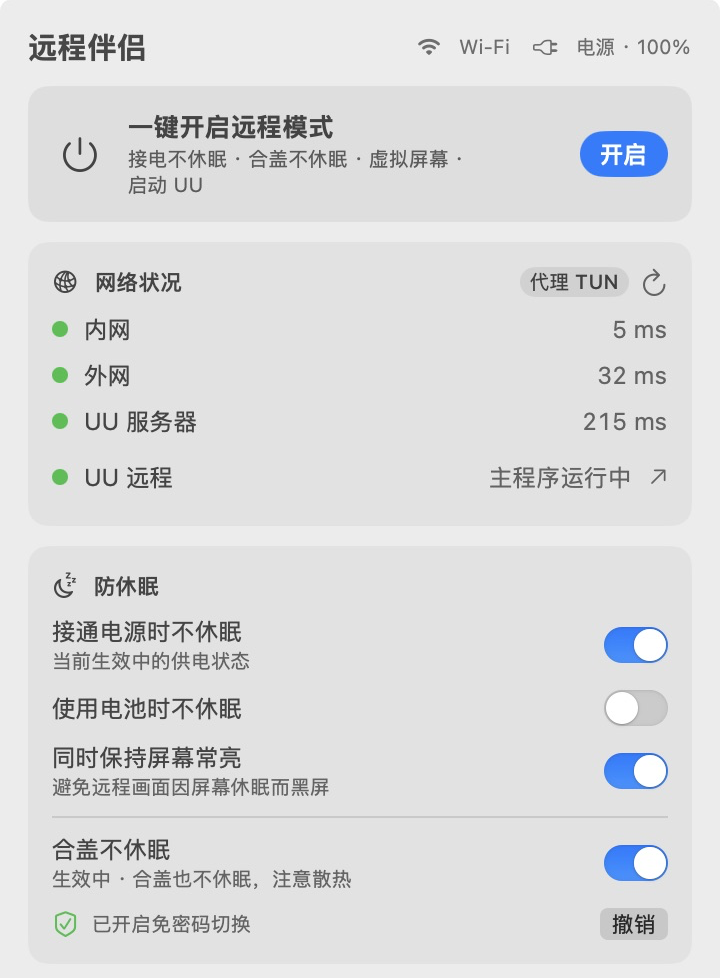
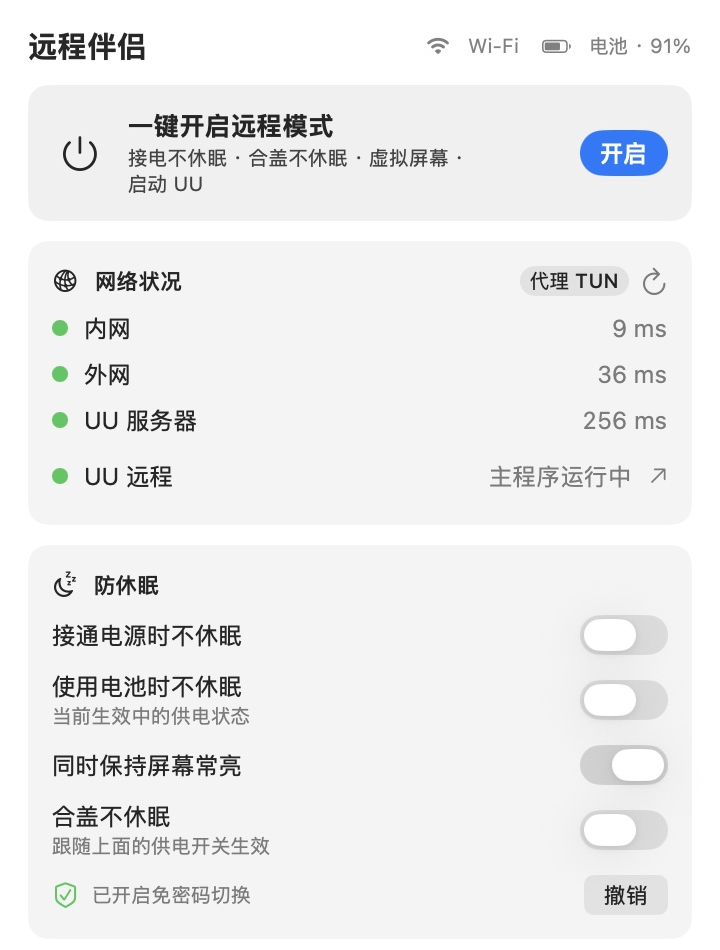
📝 docs: 精简功能介绍并更新当前界面截图

diff --git a/README.md b/README.md
@@ -5,7 +5,7 @@
 <h1 align="center">RemoteMate · 远程伴侣</h1>
 
 <p align="center"><strong>远程连接前，一键准备好你的 Mac。</strong></p>
-<p align="center">防休眠 · 合盖运行 · 虚拟屏幕 · 网络检测</p>
+<p align="center">防休眠 · 合盖运行 · 虚拟屏幕 · UU 保活 · 状态通知</p>
 
 <p align="center">
   <a href="https://github.com/erjin-zhi/remote-mate/releases/latest"><strong>下载最新版</strong></a>
@@ -17,50 +17,52 @@
 
 <p align="center"><sub>macOS 14 及以上 · 菜单栏工具 · 配合远程桌面软件使用</sub></p>
 
+## 核心特性
+
+- **一键准备远程环境**：把防休眠、合盖运行、虚拟屏幕和 UU 启动组合成一键远程模式，按需选择，随时开关。
+- **接电、电池分别管理**：独立控制两种供电状态下的防休眠与屏幕常亮，合盖策略随供电设置生效。
+- **为远程桌面适配画面**：支持预设与自定义分辨率、30 / 60 / 120 Hz、HiDPI 和主显示器切换；可随外接显示器插拔自动切换虚拟屏幕，使用电池且未开启电池防休眠时自动暂停，供电允许后恢复。
+- **UU 自动启动与可选保活**：开启远程模式时启动 UU；额外启用保活后，每 10 秒检查主程序，退出后后台重启，不抢焦点。
+- **网络与运行状态一目了然**：查看内外网延迟、UU 服务器延迟和主程序状态，未启动时可一键打开。
+- **关键变化及时提醒**：远程模式、供电和外接显示器变化影响远程时发送通知，合盖设置或虚拟屏幕失败也能及时发现。
+- **日常使用更省心**：独立设置窗口、菜单栏右键菜单、登录启动、启动后自动开启远程模式，以及应用内更新。
+
 ## 界面一览
 
 <table>
   <tr>
     <td width="50%" align="center" valign="top">
-      <strong>一键准备，状态一目了然</strong><br><br>
-      <img src="docs/images/overview.png" width="360" alt="RemoteMate 主面板：一键远程模式、网络延迟、UU 运行状态与防休眠开关">
+      <strong>一键远程与实时状态</strong><br><br>
+      <img src="docs/images/overview.png" width="360" alt="主面板：一键远程模式、网络延迟、UU 主程序状态与防休眠">
     </td>
     <td width="50%" align="center" valign="top">
-      <strong>按需配置屏幕与启动行为</strong><br><br>
-      <img src="docs/images/virtual-display.png" width="360" alt="虚拟屏幕设置：分辨率、30/60/120 Hz、HiDPI 与主显示器选项"><br>
-      <img src="docs/images/preferences.png" width="360" alt="设置窗口：一键远程包含项、外接显示器检测、UU 自动启动、登录启动与检查更新">
+      <strong>适配你的远程画面</strong><br><br>
+      <img src="docs/images/virtual-display.png" width="360" alt="虚拟屏幕：分辨率、刷新率、HiDPI 和主显示器选项">
+    </td>
+  </tr>
+  <tr>
+    <td width="50%" align="center" valign="top">
+      <strong>按需组合一键远程</strong><br><br>
+      <img src="docs/images/preferences.png" width="460" alt="远程设置：防休眠、虚拟屏幕、外接屏跳过、UU 启动与保活">
+    </td>
+    <td width="50%" align="center" valign="top">
+      <strong>启动、通知与退出偏好</strong><br><br>
+      <img src="docs/images/general.png" width="460" alt="通用设置：登录启动、状态通知和退出时恢复合盖休眠">
     </td>
   </tr>
 </table>
 
-<p align="center"><sub>v1.2.0 实际界面截图，按功能区域裁切。<a href="docs/images/main-panel.png">查看完整主面板</a></sub></p>
-
-## 能做什么
-
-- **一键远程模式**：按你的选择开启防休眠、合盖运行和虚拟屏幕，也可自动启动 UU 远程；额外勾选「UU 保活」后，主程序退出时会在后台重新启动。
-- **灵活防休眠**：分别设置接电、电池和屏幕常亮；合盖不休眠随当前供电设置生效。
-- **适配远程画面**：预设或自定义分辨率，支持 30 / 60 / 120 Hz、HiDPI 和主显示器切换；在设置中勾选「接有外接显示器时跳过」后，远程模式会在接入外接显示器时关闭虚拟屏幕，拔掉后自动创建。
-- **随时查看状态**：检测内网、外网延迟；安装 UU 远程后，还会显示其服务器延迟和主程序状态，支持一键打开。
-- **状态变化通知**：只在影响远程的时刻提醒——远程模式开启或关闭、插拔电源导致防休眠变化、插拔外接显示器触发虚拟屏幕切换，以及合盖设置或虚拟屏幕失败；面板里的手动开关不会重复弹通知。可在「设置…」的「通用」中关闭。
-- **减少重复操作**：支持登录启动、启动后自动开启远程模式，以及应用内检查更新。
+<p align="center"><sub>当前源码界面，按功能区域裁切。<a href="docs/images/main-panel.png">查看完整主面板</a> · 下载版本功能以 <a href="https://github.com/erjin-zhi/remote-mate/releases">Release 更新日志</a> 为准。</sub></p>
 
 ## 开始使用
 
 1. 从 [Releases](https://github.com/erjin-zhi/remote-mate/releases/latest) 下载 DMG，将 **RemoteMate** 拖入「应用程序」。
-2. 打开应用，点击菜单栏图标，点击「设置…」，在「远程」中勾选一键远程包含的项目；右键菜单栏图标也可打开设置、关于和检查更新。
-3. 点击「开启」，再用你的远程桌面软件连接这台 Mac。
+2. 打开菜单栏面板，在「设置…」中选择一键远程包含的项目。
+3. 点击「开启」，按提示完成授权，再用你的远程桌面软件连接这台 Mac。
 
-合盖不休眠需要管理员授权，可选择开启或撤销「免密码授权」。合盖运行时请保持散热，装包前关闭防休眠。退出应用会关闭防休眠和虚拟屏幕，默认恢复合盖休眠。
+合盖不休眠需要管理员授权；运行时保持散热，装包前关闭防休眠。UU 保活默认关闭，启用后手动退出 UU 也会被重新启动；关闭远程模式即可停止保活。退出 RemoteMate 会关闭防休眠与虚拟屏幕，默认恢复合盖休眠，不退出 UU。
 
-UU「主程序运行中」仅表示客户端已启动，不代表远程连接已建立。
-
-「UU 保活」默认关闭，需同时勾选「自动启动 UU 远程」并开启远程模式才生效。每 10 秒检查一次，手动退出 UU 也会被重新启动；关闭远程模式或取消任一勾选即可停止保活，不退出已运行的 UU。
-
-远程模式下，切换到电池供电且未开启「使用电池时不休眠」时，虚拟屏幕自动暂停，拔掉外接显示器也不会补建。接回电源或开启电池防休眠后，按外接显示器状态恢复。只纳入虚拟屏幕时顶部显示「已暂停」；还有其他项目开启时显示「部分开启」并说明暂停原因。暂停期间手动关闭最后一个其他项目会退出远程模式，取消待恢复屏幕。
-
-修改「接有外接显示器时跳过」不会立即开关当前虚拟屏幕。需要立即应用时可重新开启远程模式，后续真正插拔外接显示器才会触发自动切换。供电通知会说明虚拟屏幕是否暂停或恢复；合盖切换等待管理员授权时，先通知已确认的变化，授权结束后再补充结果。
-
-如果虚拟屏幕原本就在等待外接显示器断开，切到电池后只会等待供电允许，不提示「虚拟屏幕已暂停」。接回电源时若外接屏仍在，会继续等待其断开，不会立即创建虚拟屏幕。
+RemoteMate 负责准备远程环境；面板状态不代表远程连接已经建立，其他功能也可脱离 UU 独立使用。
 
 ## 开发
 

diff --git a/docs/development.md b/docs/development.md
@@ -53,4 +53,6 @@ GitHub Release 与 Sparkle 应用内更新的发布步骤见 [更新与发布说
 
 ## README 截图
 
-`docs/images/` 来自 v1.2.0 的真实菜单栏面板，保留完整主面板，并按功能区域裁切展示。更新截图时使用同一版本界面，避免把实时状态当作连接成功的证明；不为取图改变用户的供电、合盖或显示器设置。
+`docs/images/` 于 2026-10-15 按当前源码更新。`preferences.png` 和 `general.png` 截自当前构建的独立设置窗口；菜单栏弹窗截图接口超时，因此 `main-panel.png` 使用同一份 `PanelView` 源码在临时窗口中展示并截图，`overview.png` 和 `virtual-display.png` 从中裁切。临时预览使用独立偏好域，关闭防休眠、合盖和自动开启，仅展开显示选项；网络与 UU 状态由实际检测取得。截图裁去窗口标题栏与捕获指示，不改绘界面内容。
+
+更新截图时使用同一版本界面，避免把实时状态当作连接成功的证明；不为取图改变用户的供电、合盖或显示器设置。
